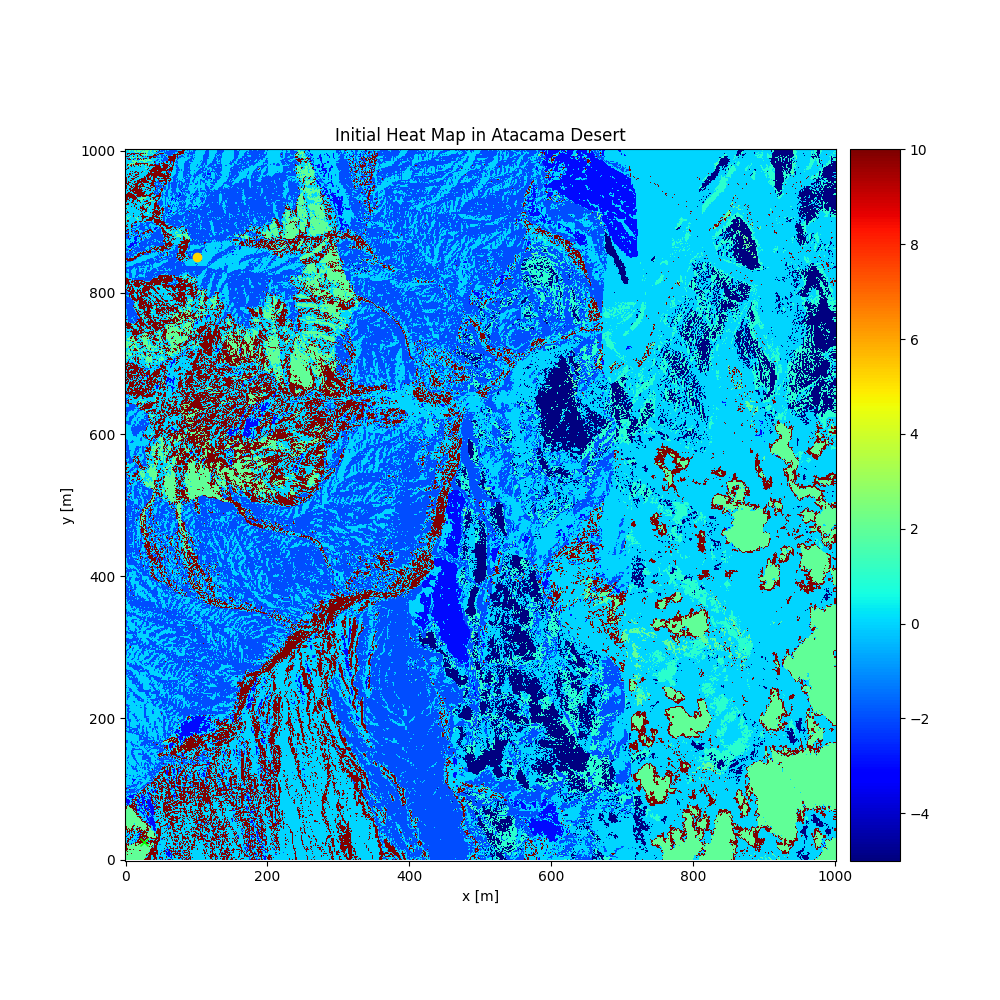
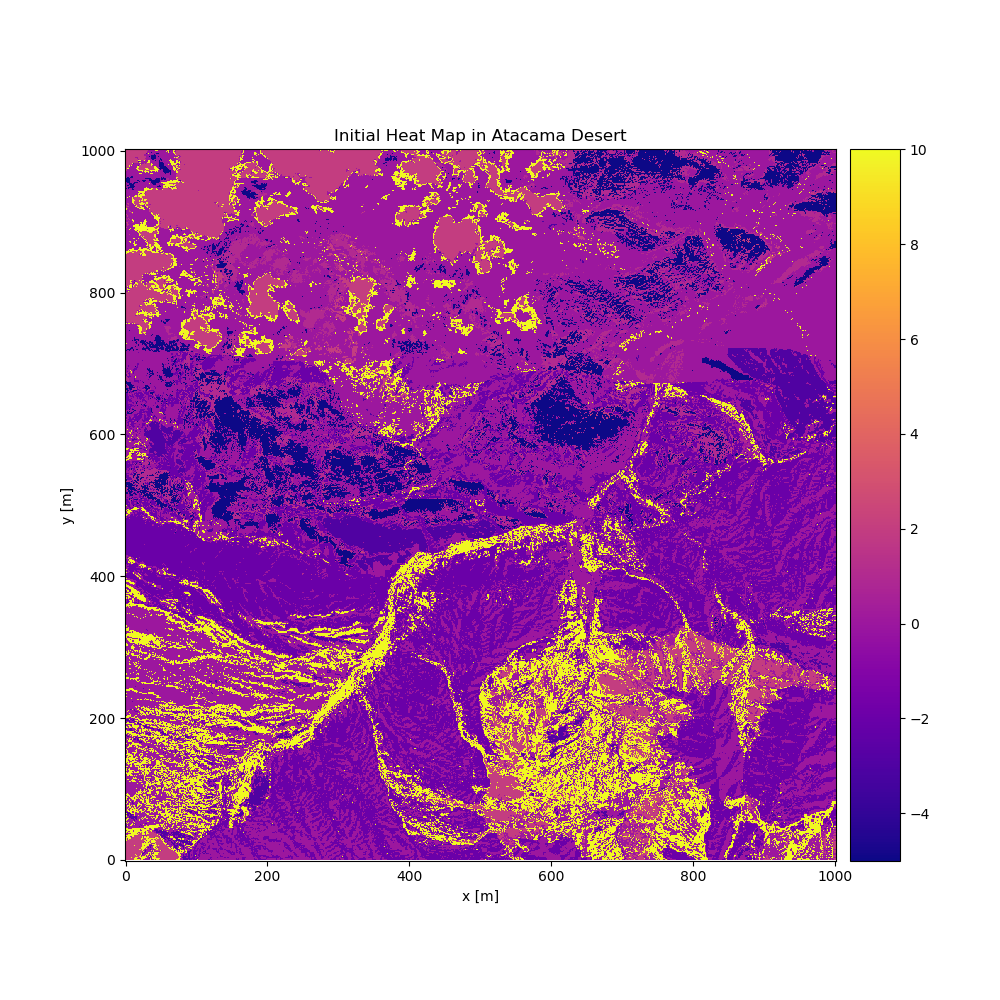
Cleaned up and standardized reward mapping
Standardized colorscheme, transposed, fixed pass-thru bug with color2reward, removed tmp points

diff --git a/src/color2reward.py b/src/color2reward.py
@@ -126,7 +126,7 @@ def image2reward(image_file, matvals=True):
 def goals(image_file):
 
     # get the reward matrix
-    rewardMatrix = image2reward(image_file)
+    rewardMatrix = image2reward(image_file, False)
 
     # from "pixel coordinate" to "xy coordinate"
     rewardMatrix = rewardMatrix.T
@@ -153,12 +153,10 @@ def goals(image_file):
     ax1.set_aspect('equal')
     ax1.set_xlabel('x [m]'); ax1.set_ylabel('y [m]')
     ax1.set_title('Initial Heat Map in Atacama Desert')
-    im1 = ax1.pcolor(xgrid_show, ygrid_show, rewardMatrix, cmap='jet', vmin=-5.0, vmax=10.0)
+    im1 = ax1.pcolor(xgrid_show, ygrid_show, rewardMatrix.T, cmap='plasma', vmin=-5.0, vmax=10.0)
     ax1_divider = make_axes_locatable(ax1)
     cax1 = ax1_divider.append_axes("right", size="7%", pad="2%")
     fig.colorbar(im1, cax=cax1)
-    ax1.plot(start[0], start[1], c='lime', marker='x')
-    ax1.plot(goal[0], goal[1], c='gold', marker='o')
     plt.savefig('../img/image2reward_with_rrt.png')
 
 def main():

diff --git a/src/image2reward.py b/src/image2reward.py
@@ -144,12 +144,10 @@ def image2reward(image_file):
     ax1.set_aspect('equal')
     ax1.set_xlabel('x [m]'); ax1.set_ylabel('y [m]')
     ax1.set_title('Initial Heat Map in Atacama Desert')
-    im1 = ax1.pcolor(xgrid_show, ygrid_show, rewardMatrix, cmap='jet', vmin=-5.0, vmax=10.0)
+    im1 = ax1.pcolor(xgrid_show, ygrid_show, rewardMatrix.T, cmap='plasma', vmin=-5.0, vmax=10.0)
     ax1_divider = make_axes_locatable(ax1)
     cax1 = ax1_divider.append_axes("right", size="7%", pad="2%")
     fig.colorbar(im1, cax=cax1)
-    ax1.plot(start[0], start[1], c='lime', marker='x')
-    ax1.plot(goal[0], goal[1], c='gold', marker='o')
     plt.savefig('../img/image2reward_with_rrt.png')
 
     return rewardMatrix
